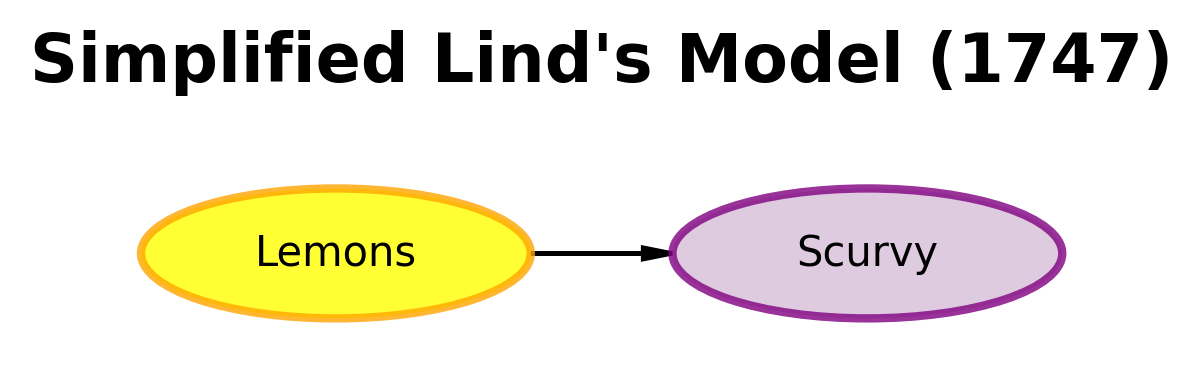
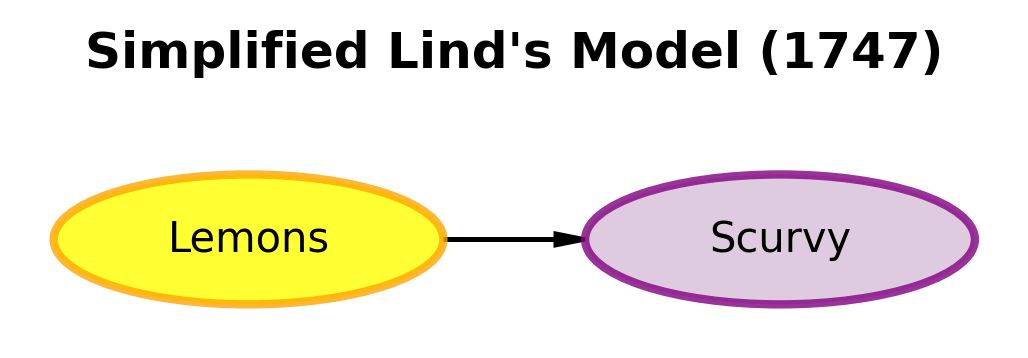
commit

Changed region(s): [[0.0311, 0.4609, 0.965, 0.8911], [0.0311, 0.0615, 0.9961, 0.2765], [0.6537, 0.6145, 0.8405, 0.7374]]

diff --git a/index.html b/index.html
@@ -80,7 +80,7 @@ ul.task-list li input[type="checkbox"] {
 <div class="cell-output cell-output-display">
 <div class="quarto-figure quarto-figure-center">
 <figure class="figure">
-<p><img src="index_files/figure-html/dag-1-output-1.png" id="dag-1" class="quarto-figure quarto-figure-center anchored figure-img" width="601" height="186"></p>
+<p><img src="index_files/figure-html/dag-1-output-1.png" id="dag-1" class="quarto-figure quarto-figure-center anchored figure-img" width="514" height="179"></p>
 </figure>
 </div>
 </div>
@@ -93,7 +93,7 @@ ul.task-list li input[type="checkbox"] {
 <div class="cell-output cell-output-display">
 <div class="quarto-figure quarto-figure-center">
 <figure class="figure">
-<p><img src="index_files/figure-html/dag-2-misguided-output-1.png" id="dag-2-misguided" class="quarto-figure quarto-figure-center anchored figure-img" width="893" height="422"></p>
+<p><img src="index_files/figure-html/dag-2-misguided-output-1.png" id="dag-2-misguided" class="quarto-figure quarto-figure-center anchored figure-img" width="720" height="415"></p>
 </figure>
 </div>
 </div>
@@ -106,7 +106,7 @@ ul.task-list li input[type="checkbox"] {
 <div class="cell-output cell-output-display">
 <div class="quarto-figure quarto-figure-center">
 <figure class="figure">
-<p><img src="index_files/figure-html/dag-3-1928-output-1.png" id="dag-3-1928" class="quarto-figure quarto-figure-center anchored figure-img" width="990" height="422"></p>
+<p><img src="index_files/figure-html/dag-3-1928-output-1.png" id="dag-3-1928" class="quarto-figure quarto-figure-center anchored figure-img" width="750" height="415"></p>
 </figure>
 </div>
 </div>
